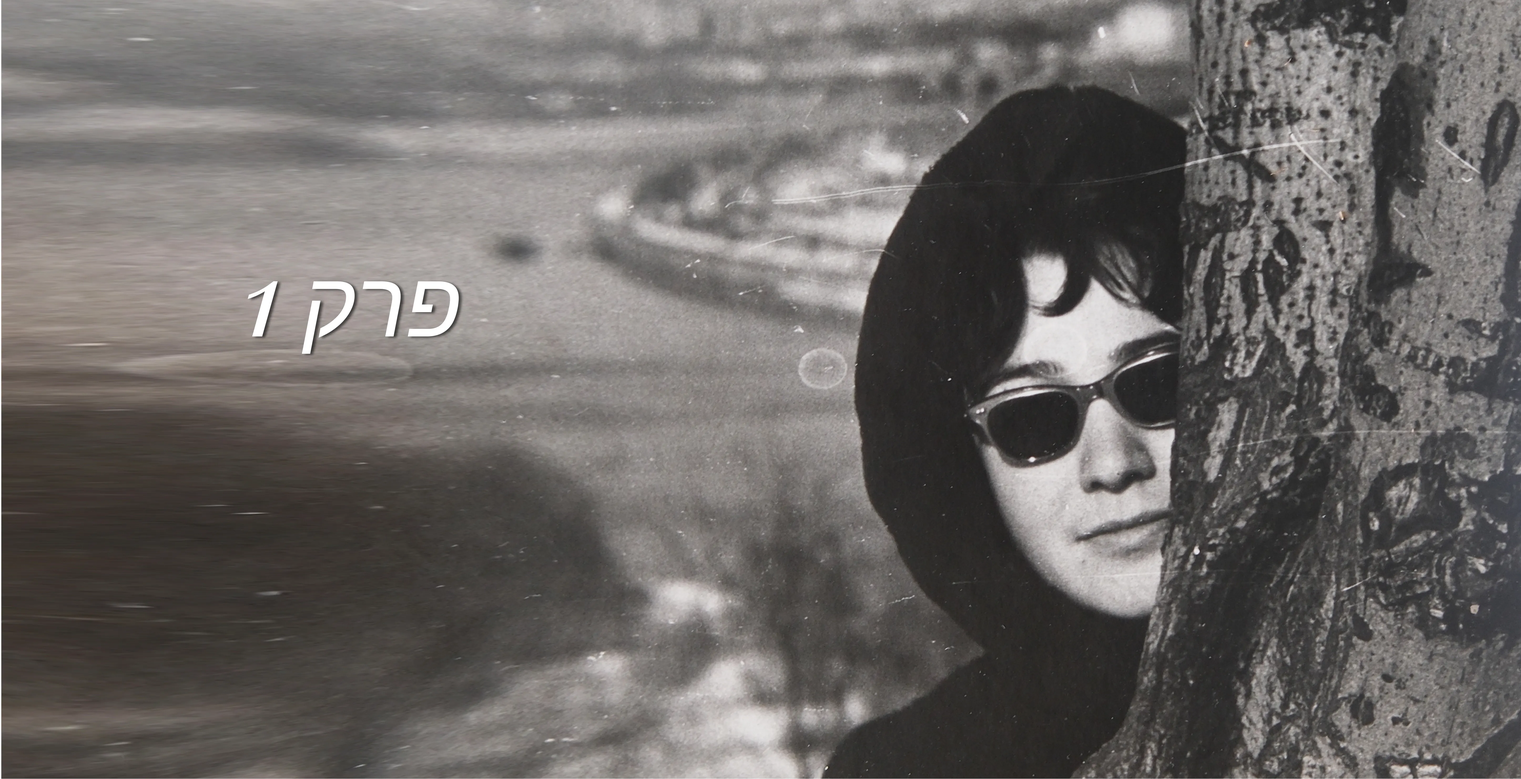
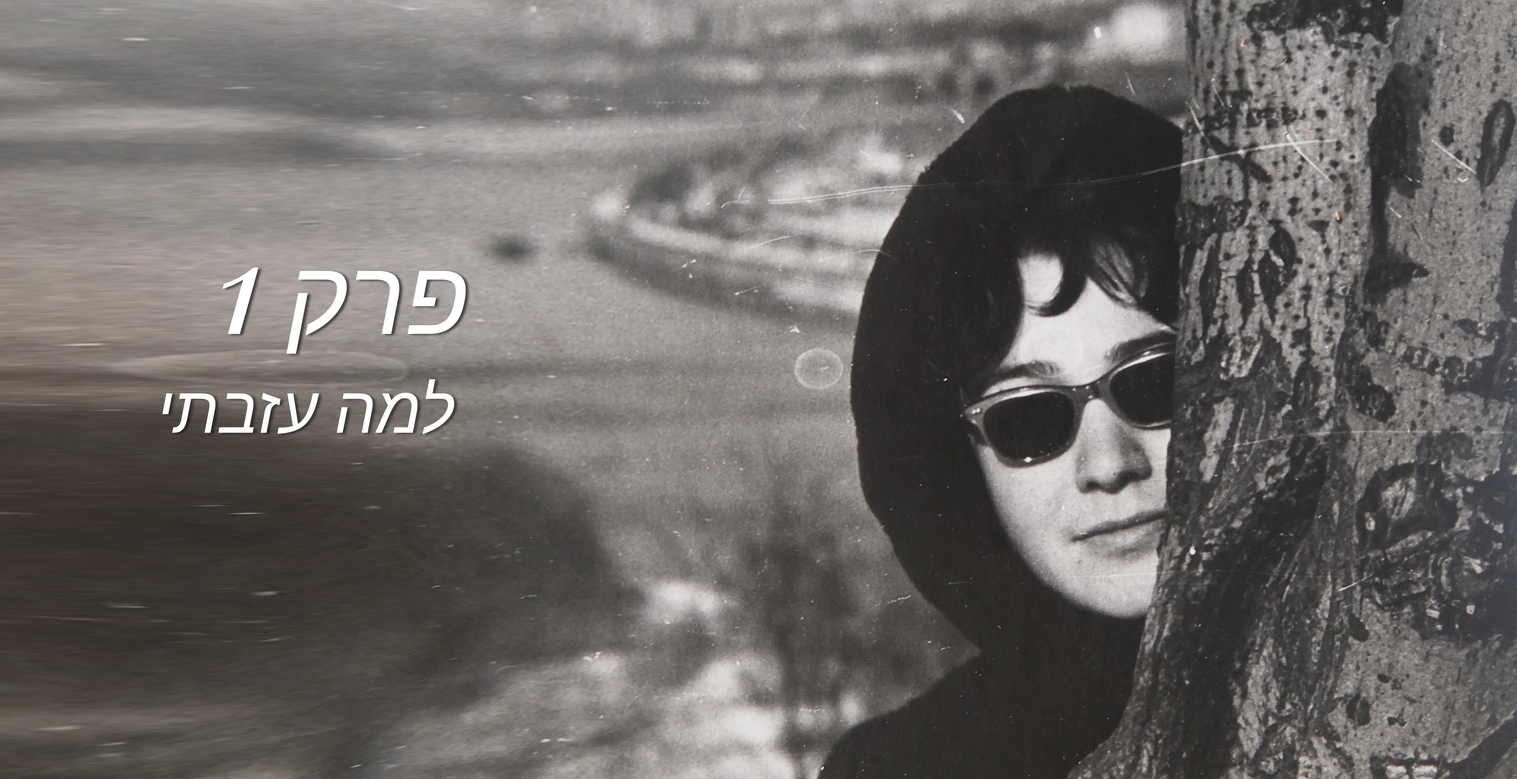
mobile added image

diff --git a/src/pages/index.jsx b/src/pages/index.jsx
@@ -214,11 +214,22 @@ const [lang, setLang] = useState(() => {
 
 {/* ---------- Mobile-only Hero section ---------- */}
 <div className="block md:hidden w-full">
-  <img
-    src="/images/mobile-images/hero-mobile.jpg"
-    alt={texts[lang].alt.hero}
-    className="w-full h-auto block"
-  />
+
+
+
+
+
+ <img
+  src={
+    lang === "ru"
+      ? "/images/mobile-images/ru-hero-index-mobile.webp"
+      : lang === "en"
+      ? "/images/mobile-images/en-hero-index-mobile.webp"
+      : "/images/mobile-images/he-hero-index-mobile.webp"
+  }
+  alt={texts[lang].alt.hero}
+  className="w-full h-auto block"
+/>
 
   <div className="relative w-full -mt-[115px]">
     <img
